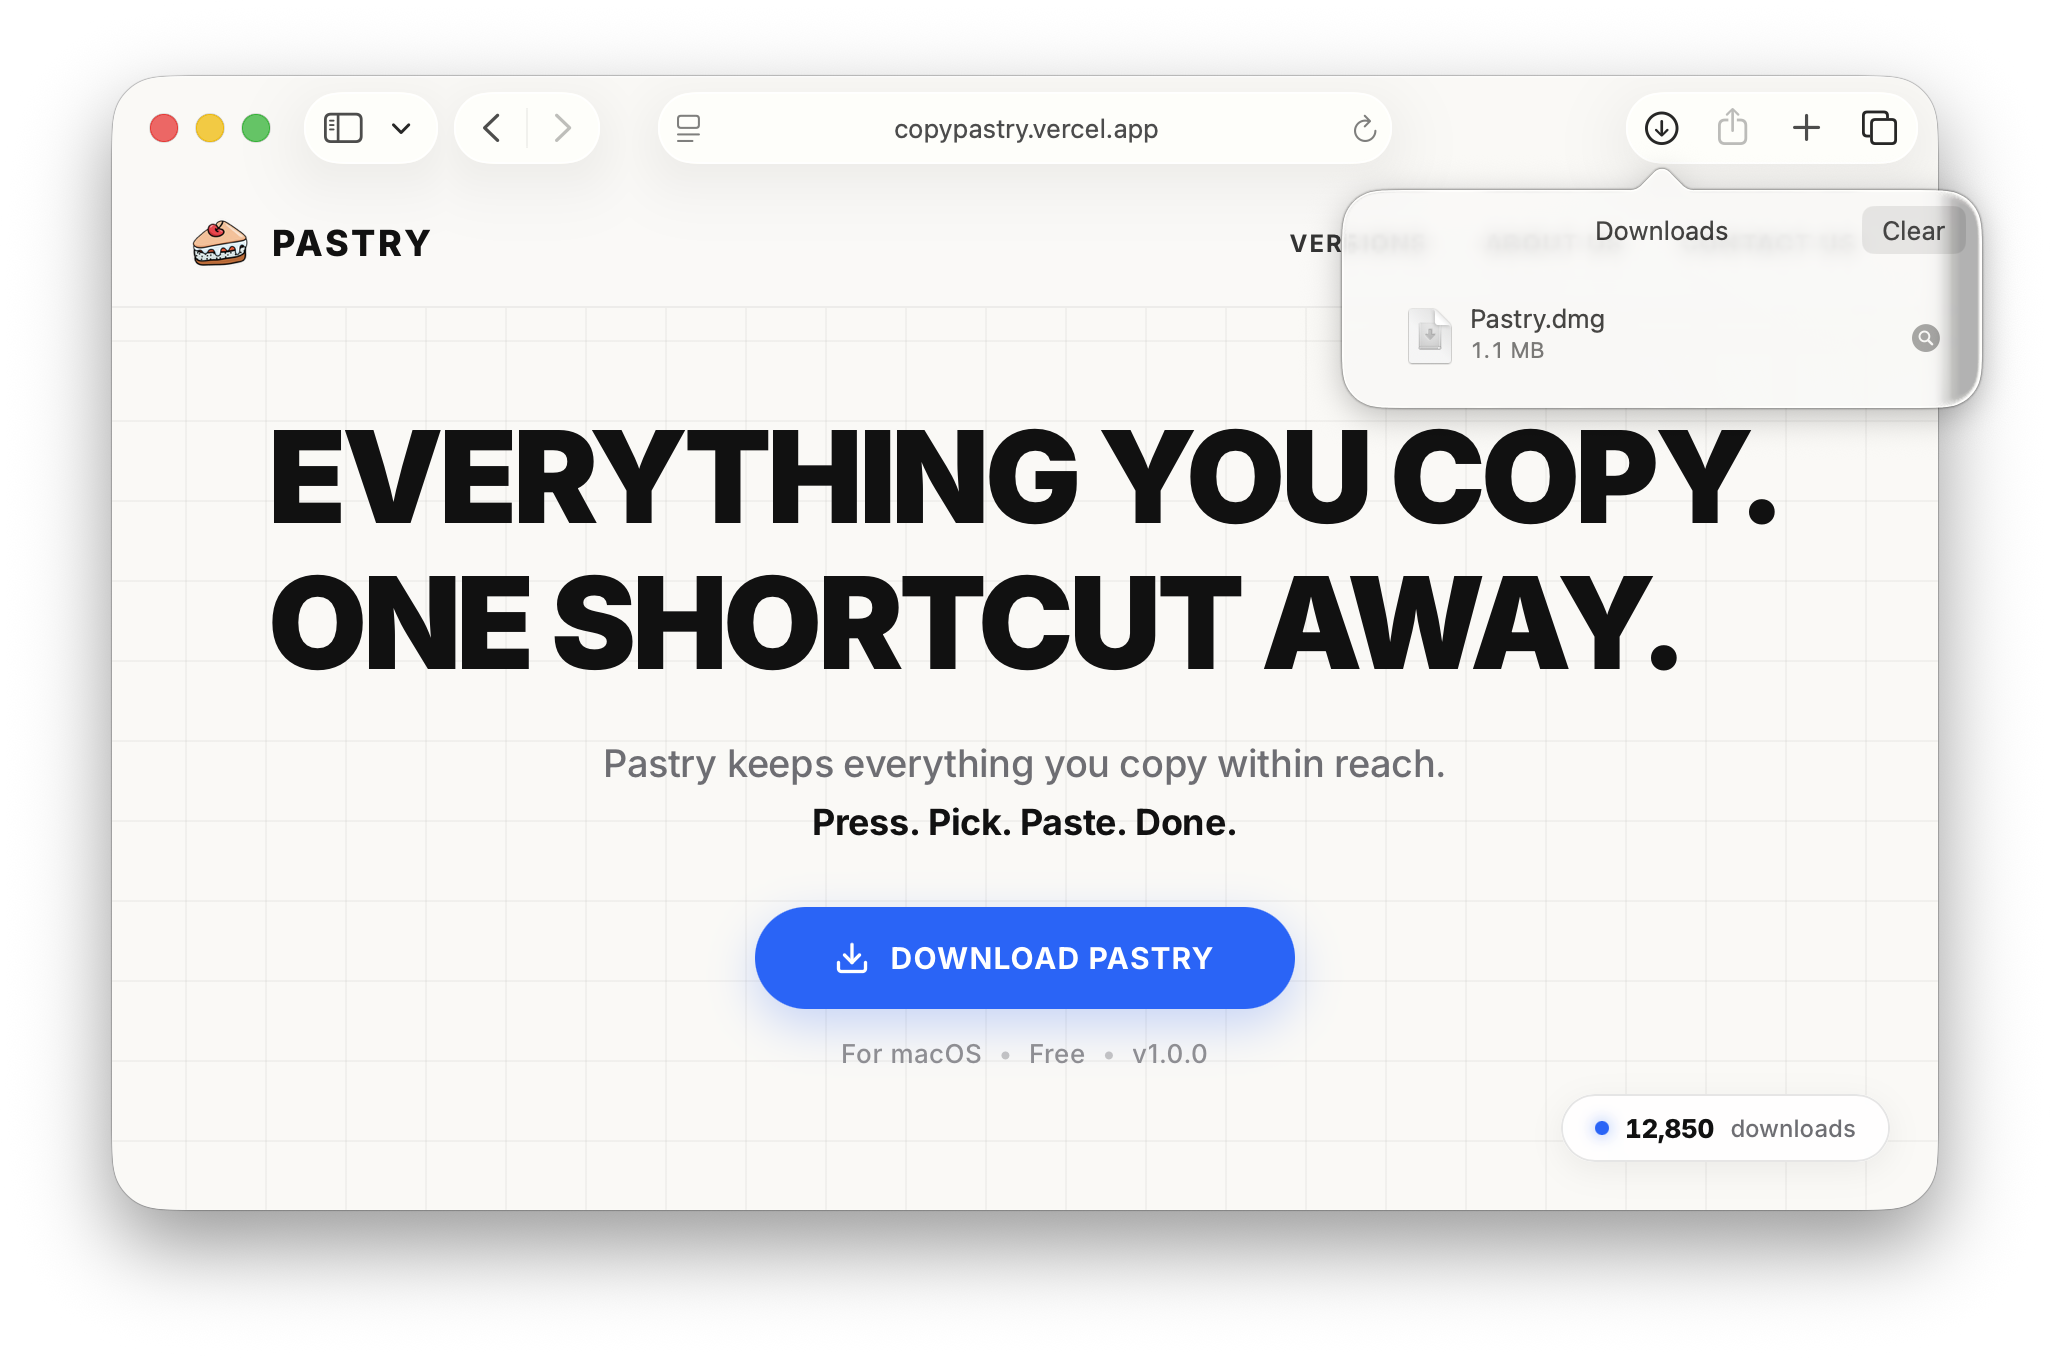
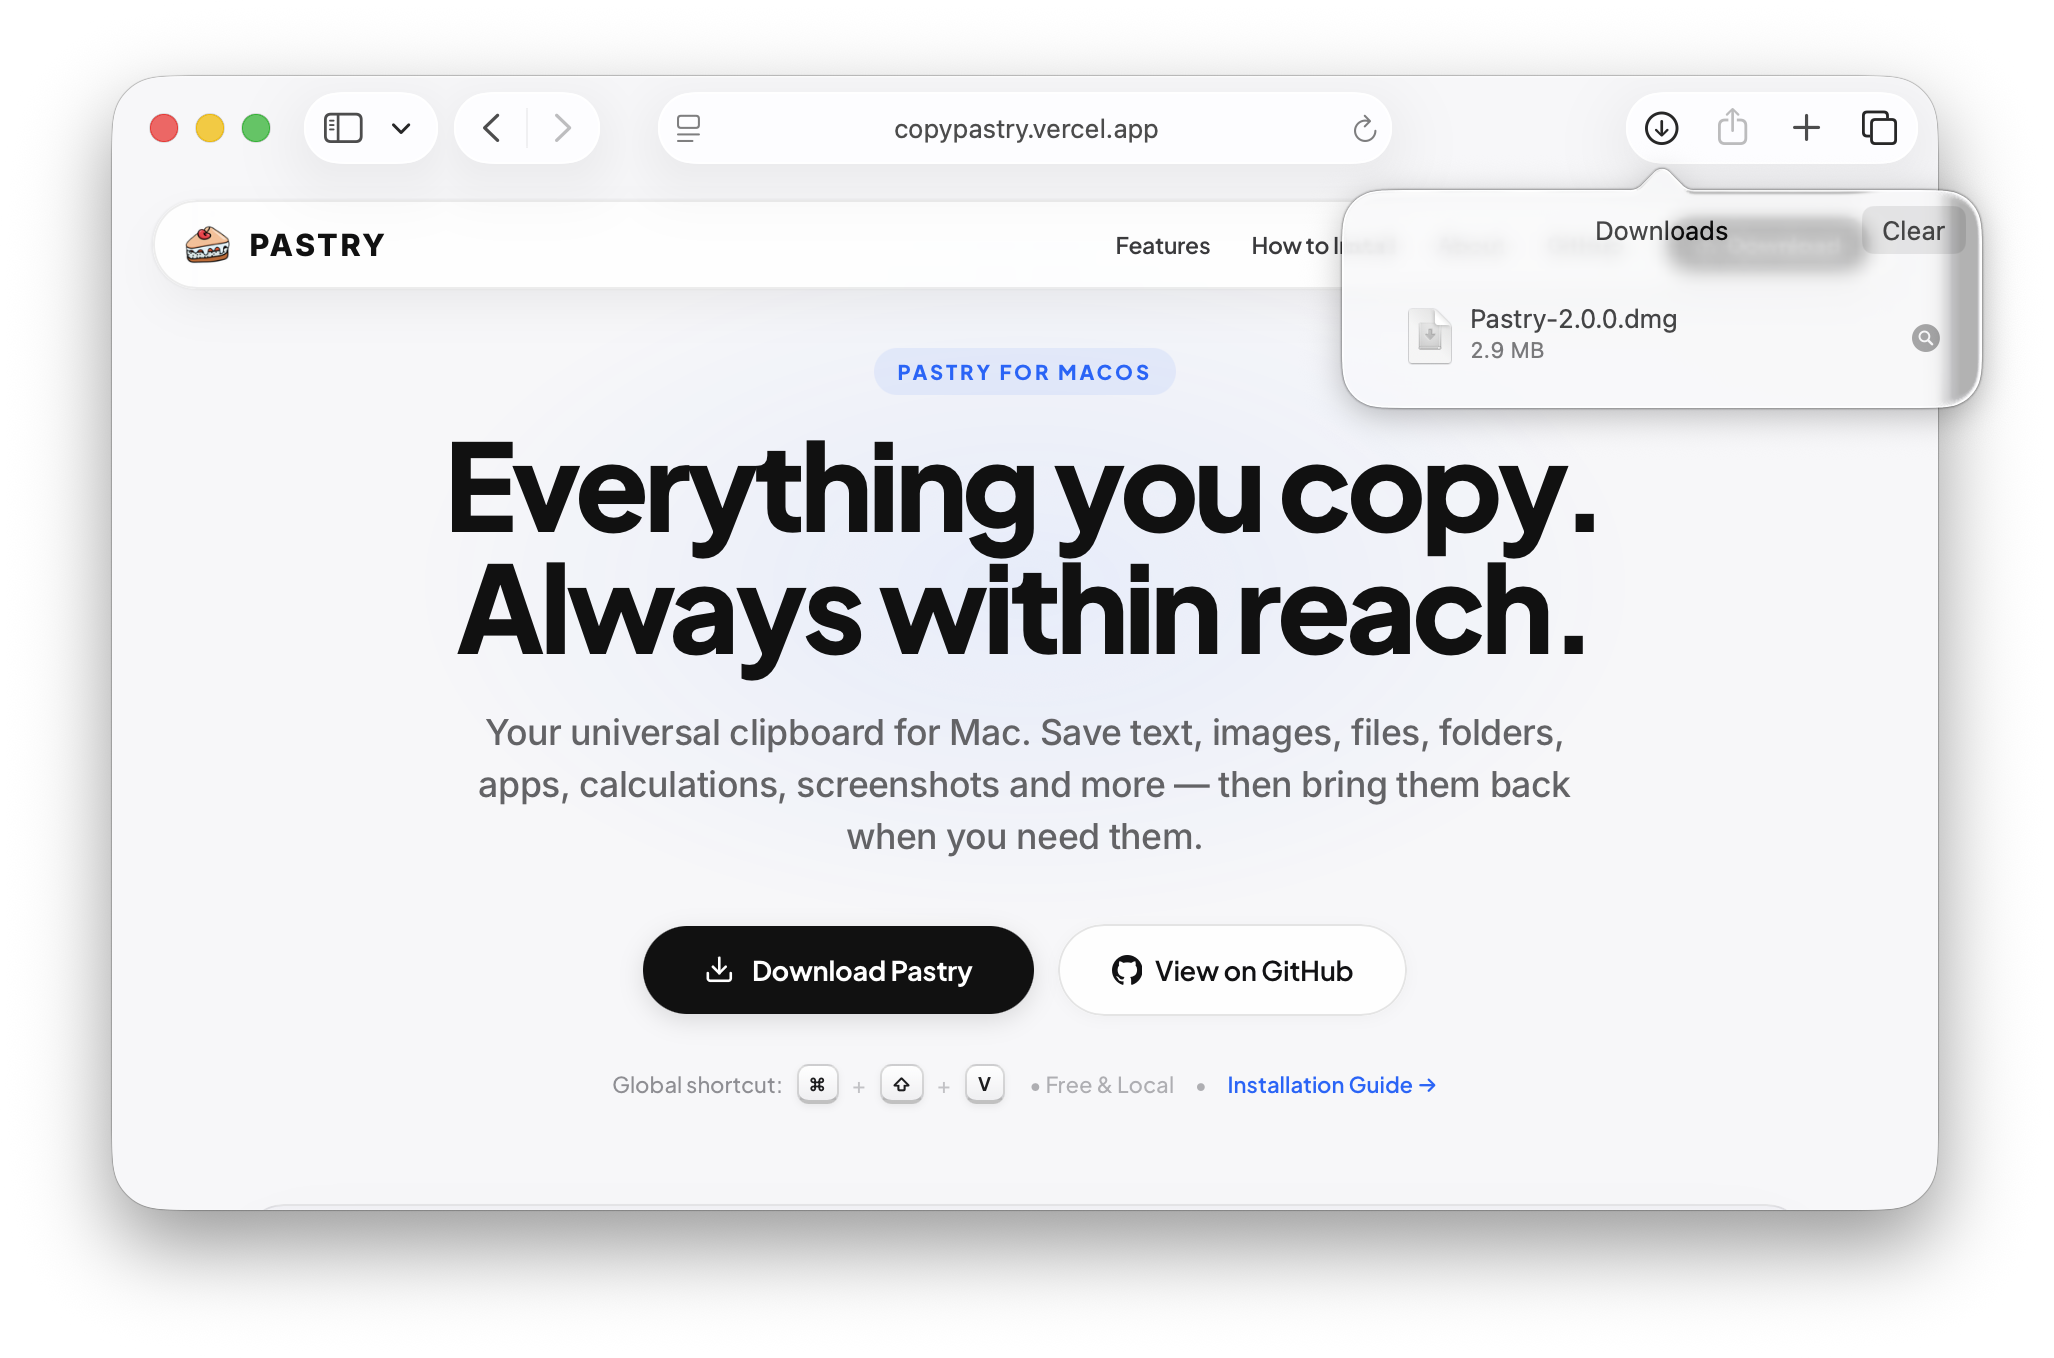
add live time ui

diff --git a/src/components/Hero.tsx b/src/components/Hero.tsx
@@ -10,6 +10,30 @@ export const Hero: React.FC<HeroProps> = ({ onDownloadClick }) => {
   const [animStep, setAnimStep] = useState<number>(0);
   const [isPaused, setIsPaused] = useState<boolean>(false);
 
+  // Live macOS menu bar day and time (e.g., "Sat 11:19 AM")
+  const [liveMenuTime, setLiveMenuTime] = useState<string>(() => {
+    const now = new Date();
+    return (
+      now.toLocaleDateString('en-US', { weekday: 'short' }) +
+      ' ' +
+      now.toLocaleTimeString('en-US', { hour: 'numeric', minute: '2-digit', hour12: true })
+    );
+  });
+
+  useEffect(() => {
+    const updateTime = () => {
+      const now = new Date();
+      setLiveMenuTime(
+        now.toLocaleDateString('en-US', { weekday: 'short' }) +
+          ' ' +
+          now.toLocaleTimeString('en-US', { hour: 'numeric', minute: '2-digit', hour12: true })
+      );
+    };
+    updateTime();
+    const timer = setInterval(updateTime, 1000);
+    return () => clearInterval(timer);
+  }, []);
+
   const handleDownload = () => {
     if (onDownloadClick) onDownloadClick();
     if (LATEST_DOWNLOAD_URL) window.location.href = LATEST_DOWNLOAD_URL;
@@ -385,7 +409,7 @@ export const Hero: React.FC<HeroProps> = ({ onDownloadClick }) => {
                   <img src="/pastry-logo.png" alt="Pastry Icon" style={{ width: '13px', height: '13px' }} />
                   <span style={{ fontSize: '11px', fontWeight: 700 }}>Pastry Active</span>
                 </div>
-                <span>Wed 5:06 PM</span>
+                <span>{liveMenuTime}</span>
               </div>
             </div>
 
